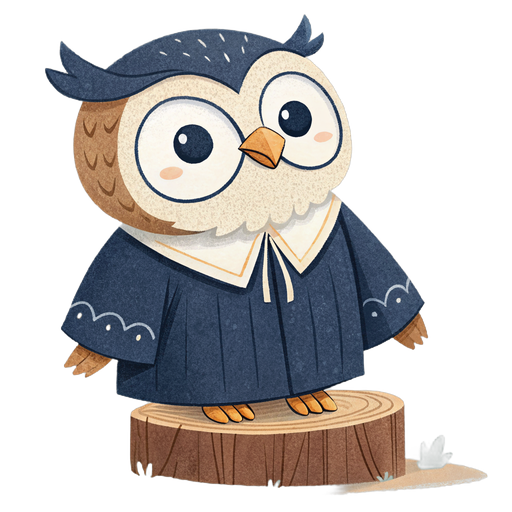
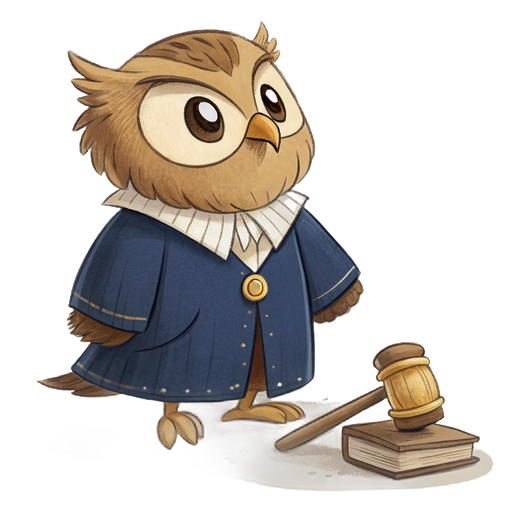
pip(listening): swap stump pose for gavel-down variant
Replaces pip_listening (the on-a-stump owl with no gavel) with a regenerated draft where the gavel rests on a small book in front of Pip's feet, both wings folded close, calm head tilt. Restores the "judge" signifier that was missing from the original listening pick. Re-uses the same character design as Pip Triumphant — brown plumage, navy robe, wood-handle gold gavel.

The Recraft listening prompt is tightened: explicit "wings NEVER raised", "gavel set DOWN, never held", "CALM listening variant, NOT a triumph pose" to keep the model from drifting back to confident gavel-up poses on future regens. process-pip.py LISTENING_SRC points at the new draft.

diff --git a/tools/pip-gen/process-pip.py b/tools/pip-gen/process-pip.py
@@ -26,7 +26,7 @@ ASSETS_DIR = PROJECT_ROOT / "settle_this" / "assets" / "pip"
 DRAFTS_DIR = ASSETS_DIR / "_recraft_drafts"
 
 TRIUMPH_SRC = DRAFTS_DIR / "triumph_2026-05-14T02-35-08_2.png"
-LISTENING_SRC = DRAFTS_DIR / "listening_2026-05-14T02-35-08_2.png"
+LISTENING_SRC = DRAFTS_DIR / "listening_2026-05-16T06-43-40_2.png"
 
 # Triumph: mask everything below this y that isn't part of Pip's main blob.
 TRIUMPH_PROP_Y_THRESHOLD = 780
